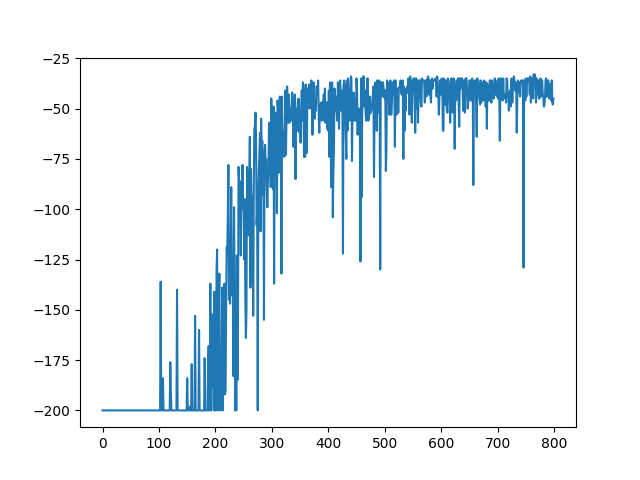
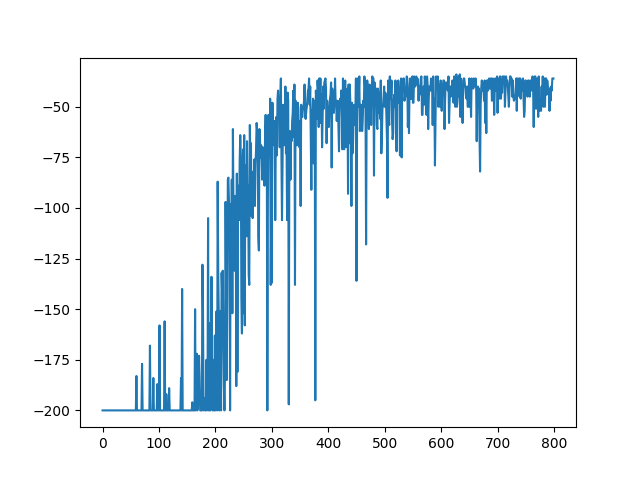
fixed improper assignment in rk4 method and tested

diff --git a/ME759/rk4.cpp b/ME759/rk4.cpp
@@ -40,7 +40,7 @@ void dsdt(double* deriv[], double theta1, double theta2,double dtheta1,double dt
     (*deriv)[0] = dtheta1;
     (*deriv)[1] = dtheta2;
     (*deriv)[2] = ddtheta1;
-    (*deriv)[3] = ddtheta1;
+    (*deriv)[3] = ddtheta2;
     (*deriv)[4] = 0;
 
 }
@@ -65,6 +65,9 @@ int main(int argc, char *argv[]) {
     double *k4 = new double[5];
 
     dsdt(&k1, y[0],               y[1],              y[2],              y[3],             y[4]);
+
+    cout << k1[0] <<','<< k1[1] << ','<< k1[2]<< ','<< k1[3] << ','<< k1[4]<< endl;
+
     dsdt(&k2, y[0] + dt2 * k1[0], y[1]+ dt2 * k1[1], y[2]+ dt2 * k1[2], y[3]+ dt2 * k1[3],y[4]+dt2 * k1[4]);
     dsdt(&k3, y[0] + dt2 * k2[0], y[1]+ dt2 * k2[1], y[2]+ dt2 * k2[2], y[3]+ dt2 * k2[3],y[4]+dt2 * k2[4]);
     dsdt(&k4, y[0] + dt * k3[0],  y[1]+ dt * k3[1],  y[2]+ dt * k3[2],  y[3]+ dt * k3[3], y[4]+dt * k3[4]);
